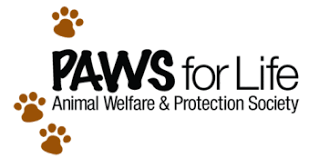
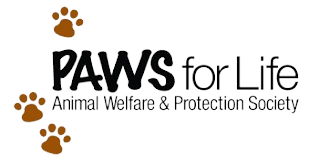
header changes

Changed region(s): [[0.0282, 0.3038, 0.9592, 0.9873], [0.1411, 0.0253, 0.2821, 0.2278], [0.1975, 0.2278, 0.2257, 0.2532]]

diff --git a/index.html b/index.html
@@ -13,21 +13,19 @@
 
 <body>
     <header>
-        <img src="./images/paws for life rescue.jpeg" alt="header img" class="header-img">
-      <div 
-       <h1 class="header-title">
-            PET FAMILY
-        </h1>
-    </div>
+      
     <div class="location">
     <img  src="./images/home icons/map.png" class="map-img">
     <a target="_blank" class="location-text" href="https://maps.app.goo.gl/wuBcvMjjVZCUrfSq8">Mumbai - Agra National Highway,<br> next to Nehru Garden, Nashik, Maharashtra 422010</a>
 </div>
+
     <div class="header-icons">
         <a target="_blank" href="https://www.instagram.com/pet_adoption_pune/"><img src="./images/home icons/instagram.png" class="online"></a>
         <a target="_blank" href="https://www.facebook.com/groups/295353165210858/"><img src="./images/home icons/facebook.png" class="online"></a>
 
     </div>
+    <img src="./images/paws for life1.png" alt="header img" class="header-img">
+
     </header>
     <div class="container">
         <div class="navbar">
